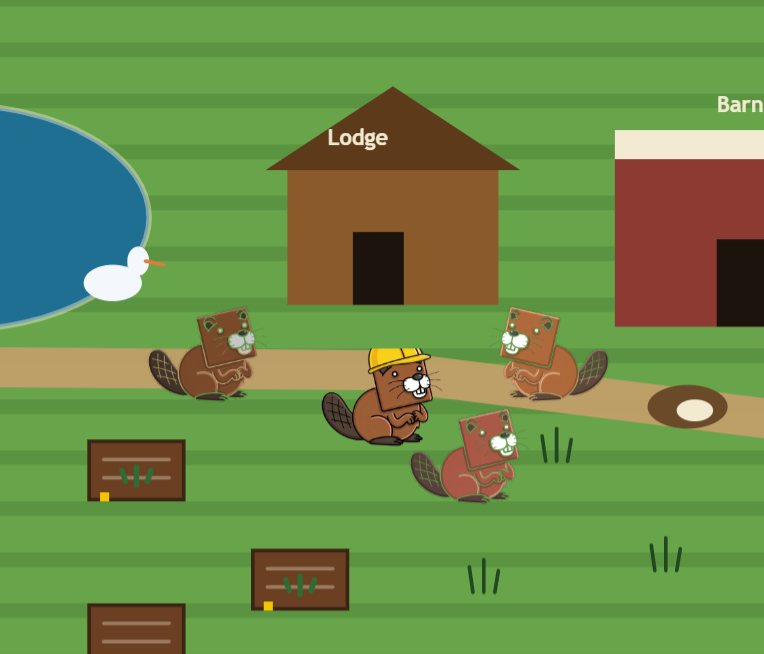
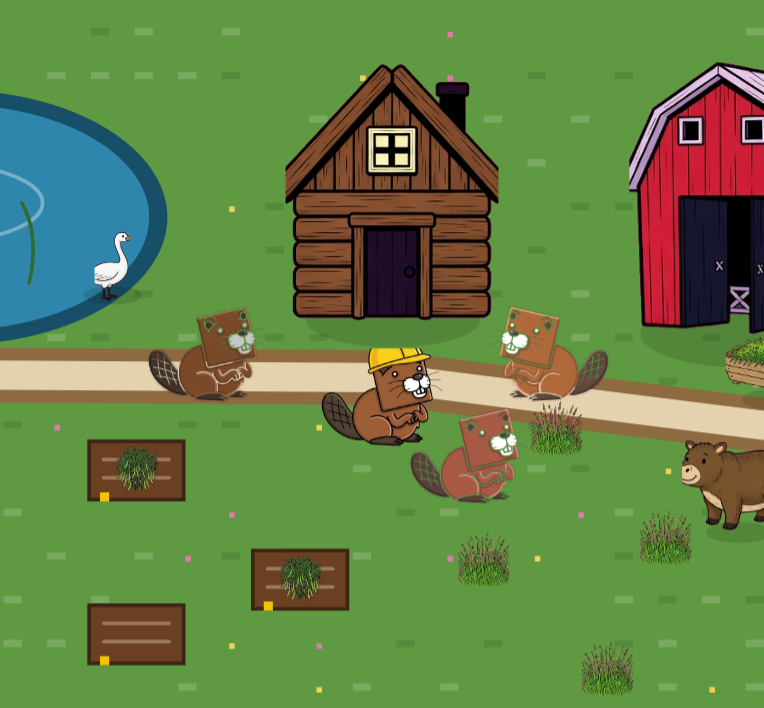
Refresh the Willow Cut card.

diff --git a/index.html b/index.html
@@ -167,7 +167,7 @@
         </div>
       </a>
       <a class="card" href="https://ccosma1.github.io/bober-frost-lodge/">
-        <img src="assets/cards/willow-cut.png?v=wc1" alt="" />
+        <img src="assets/cards/willow-cut.png?v=wc2" alt="" />
         <div class="body">
           <h3>Bober Willow Cut <span class="badge updated">UPDATED</span></h3>
           <p class="kind">Farm / willow bank</p>
